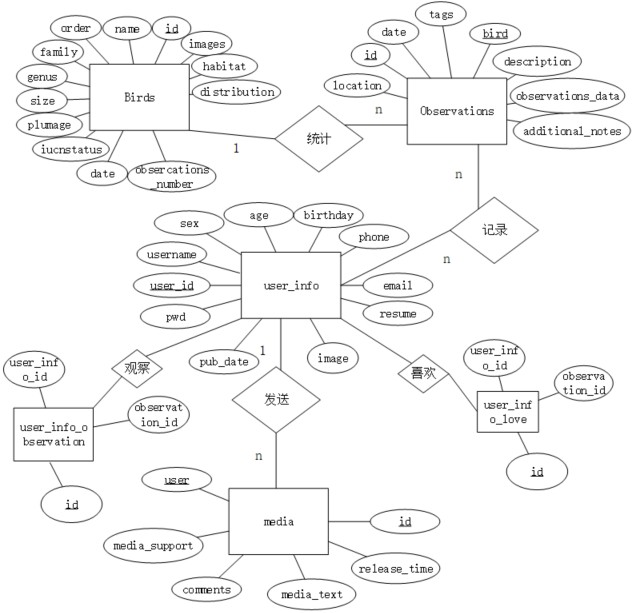
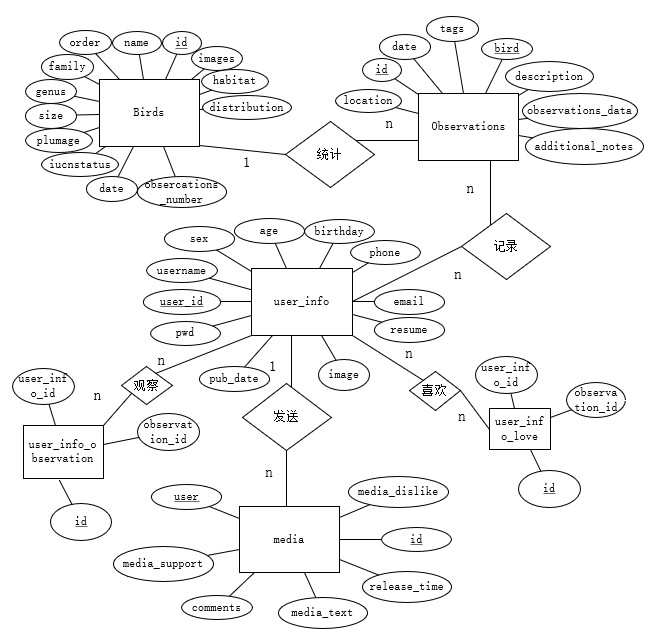
update md

Changed region(s): [[0.0, 0.0, 1.0, 1.0], [0.4176, 0.8369, 0.4772, 0.8679]]

diff --git a/README.md b/README.md
@@ -62,17 +62,23 @@ Conda	22.9.0
   > -  **observations_number**:观察数
   > -  **date**:统计时间
   
-- love
+- user_info_love
 
-  >- **love_id**：收藏夹编号
+  >- **id**:编号
+  >
+  >- **user_info_id**：用户表编号
+  >
+  >- **observation_id**：观察表编号
+  >
   
-  >- **bird_love_name**：爱鸟名字
-  >- **order**：鸟类所属的目。
-  >- **family**：鸟类所属的科。
-  >- **genus**：鸟类所属的属。
-  >- **images**：鸟类图片
-  >- **text**:收藏夹的内容
-  >- **user**:外键，关联account表中的user_id
+- user_info_observation
+
+   >- **id**:编号
+  >
+  >- **user_info_id**：用户表编号
+  >
+  >- **observation_id**：观察表编号
+  >
   
 - media
 
@@ -83,7 +89,7 @@ Conda	22.9.0
   >- **date**：发布的时间
   >- **comments**：评论内容
   
-- user
+- user_info
 
   >- **user_id**：用户ID
   >- **username**：用户姓名
@@ -92,6 +98,7 @@ Conda	22.9.0
   >- **username**:账号名
   >- **phone**:电话号
   >- **email**：邮箱
+  >- ...
 
 
 ### 7  页面设计
